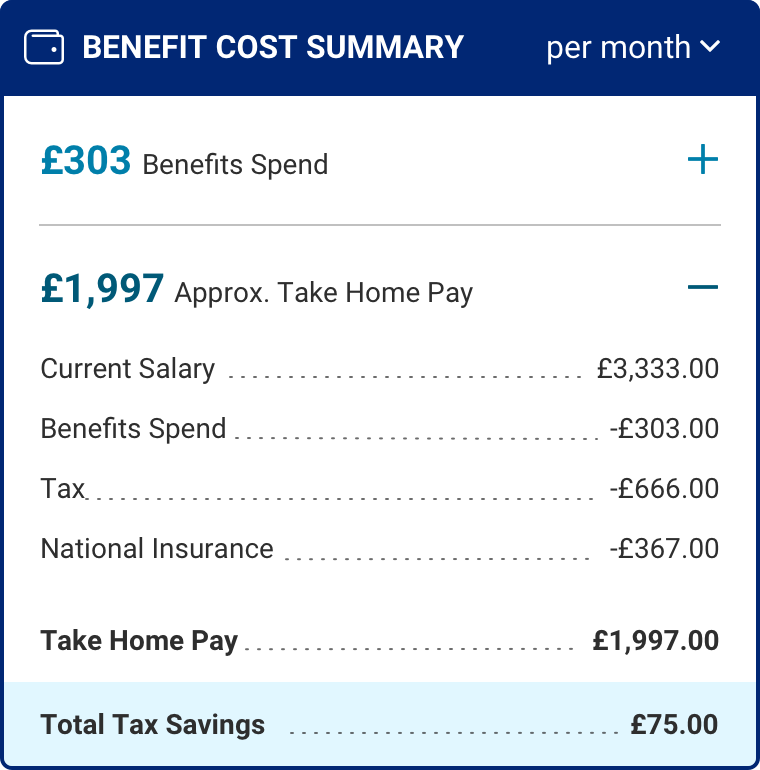
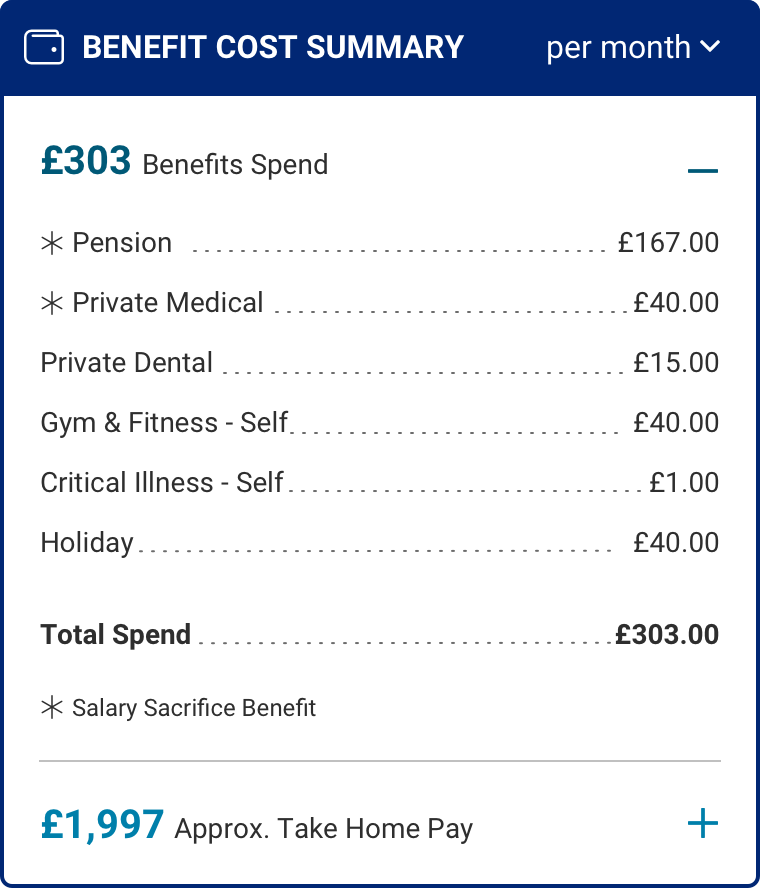
adds more content to tbs case study. Updates global header styles

diff --git a/src/pages/tbs.html b/src/pages/tbs.html
@@ -5,7 +5,7 @@ tagline: An employee benefits platform
 
 clients: Multinational Fortune 500 Companies, such as Microsoft, Accenture, and Johnson & Johnson
 users: Employees of Aon client companies
-description: Insurance broking is a core offering for Aon United. Our bespoke platform TBS brings together multiple HR applications and carrier data. It provides the underpinnings of most of our insurance enrollment websites, accounting for 1.4 billion in revenue.
+description: Aon's bespoke employee benefits platform TBS (Total Benefits Solutions) brings together multiple HR applications and carrier data. It provides the underpinnings of most of our insurance enrollment websites, accounting for 1.4 billion in revenue.
 
 roles: UX Designer, Team Lead
 
@@ -20,6 +20,9 @@ pageNavItems:
     anchor: poc
     title: Proof of Concept
   -
+    anchor: customization
+    title: Customization
+  -
     anchor: delivery
     title: Delivery (Ongoing)
 
@@ -27,7 +30,7 @@ pageNavItems:
 <section id="background" class="page-anchor">
   <section>
     <h2>Background</h2>
-    <p>The existing online benefits platform is confusing and difficult to navigate. Client HR departments are overwhelmed with requests for guidance. Competitors that center user experience threaten Aon’s market share.</p>
+    <p>My team was tasked with redesigning Aon's signature online benefits platform after client feedback indicated that the existing user experience is confusing and difficult to navigate. Our clients' HR departments are overwhelmed with requests for guidance. As a result, there is concern that competitors that center user experience will threaten Aon’s market share.</p>
     <h3>Goals</h3>
     <ul>
       <li>Simplify the user experience by addressing friction points and offering key information at the right times. Success will look like a reduction in poor feedback and customer service calls.</li>
@@ -39,7 +42,7 @@ pageNavItems:
       <li>Reducing friction around benefits enrollment, without being able to structure the carrier plans.</li>
       <li>Demonstrating the value of benefits and helping users choose the options that best meet their individual needs.</li>
       <li>Tailoring the platform for the Asia Pacific, Europe, and Middle East markets.</li>
-      <li>Building in sufficient flexibility to account for individual client configuration.</li>
+      <li>Building in flexibility to account for individual client configuration.</li>
     </ul>
   </section>
   <section>
@@ -106,6 +109,7 @@ pageNavItems:
   <section>
     <h3>Annual Enrollment</h3>
     <p>During annual enrollment, the user will be prompted to enroll in next year’s benefits.</p>
+    <h4>Pension Enrolment</h4>
     <p>This is the pension page. We introduced a number of decision support features to help guide the user through their selections.</p>
     {{> project-image 
       style='' 
@@ -136,8 +140,28 @@ pageNavItems:
       img='tbs/poc/tbs-pension-chart-2.png' 
       alt='chart showing pension growth if user contributes 6 percent of their salary'}}
 
-    <!-- <p>The benefit cost summary helps the user understand how much they are spending on benefits. The user can expand each section to see a breakdown of their spending and their take home pay. This component dynamically updates based on the user’s selections.</p> -->
+    <div class="grid-container full">
+      <div class="grid-x grid-padding-x">
+        <div class="cell medium-6">
+          <h4>Benefit Cost Summary</h4>
+          <p>The benefit cost summary helps the user understand how much they are spending on benefits. The user can expand each section to see a breakdown of their spending and their take home pay. This component dynamically updates based on the user’s selections.</p>
+        </div>
+        <div class="cell medium-6">
+          {{> project-image 
+            style='' 
+            classes='has-shadow' 
+            img='tbs/poc/tbs-benefit-cost-summary-1.png' 
+            alt='benefit cost summary with all sections closed'}}
+            {{> project-image 
+            style='' 
+            classes='has-shadow' 
+            img='tbs/poc/tbs-benefit-cost-summary-2.png' 
+            alt='benefit cost summary with first section open'}}
+        </div>
+      </div>
+    </div>
 
+    <h4>Private Medical Enrolment</h4>
     <p>This is the private medical benefit page. For private medical, the user can choose to cover dependents. They can also add or edit dependents.</p>
     <p>In testing, employees really valued the ability to add dependents on a per benefit basis, which is not something the current platform accommodates.</p>
 
@@ -173,6 +197,92 @@ They can also add or edit dependents.</p>
 </section>
 
 
+<section id="customization" class="page-anchor">
+  <section>
+    <h2>Customization</h2>
+    <p>For our clients, it's very important that TBS reflects their brands. In the past, Aon's configuration team wrote custom CSS for every individual client site. Our clients appreciated the flexibility of this approach, but it's a time-consuming process, and the resulting color combinations rarely meet accessibility criteria.</p>
+    <h4>Theme Color Application</h4>
+    <p>The first thing we tackled in delivery was creating a system that allows clients to customize TBS with one of 8 theme colors.</p>
+    <h5>Aqua Theme Components</h5>
+    {{> project-image 
+      style='' 
+      classes='has-shadow' 
+      img='tbs/delivery/tbs-theme-aqua.png' 
+      alt='aqua theme components'
+      caption=''}}
+    <h5>Navy Theme Components</h5>
+    {{> project-image 
+      style='' 
+      classes='has-shadow' 
+      img='tbs/delivery/tbs-theme-navy.png' 
+      alt='navy theme components'
+      caption=''}}
+    <h5>Red Theme Components</h5>
+    {{> project-image 
+      style='' 
+      classes='has-shadow' 
+      img='tbs/delivery/tbs-theme-red.png' 
+      alt='red theme components'
+      caption=''}}
+  </section>
+  <section>
+    <h4>Brand Color Application</h4>
+    <p>Clients can also apply their brand colors to select components. We have two different approaches to brand color application, depending on whether it's a darker or brighter hue.</p>
+    <h4>Light and Dark Modes</h4>
+    <p>Finally, clients can choose between light and dark mode, which impacts how their brand and theme colors are expressed.</p>
+    <h4>Visual Assets</h4>
+    <p>We also encourage clients to provide their own photography, icons, and other brand assets.</p>
+    <p>Here's a client branded dashboard in dark and light mode:</p>
+    <div class="grid-container full">
+      <div class="grid-x grid-padding-x">
+        <div class="cell medium-6">
+          {{> project-image 
+            style='' 
+            classes='has-shadow' 
+            img='tbs/delivery/tbs-dash-clienta-light-mode.png' 
+            alt='Client Dashboard in Light Mode'
+            caption='Client Dashboard in Light Mode'}}
+        </div>
+        <div class="cell medium-6">
+          {{> project-image 
+            style='' 
+            classes='has-shadow' 
+            img='tbs/delivery/tbs-dash-clienta-dark-mode.png' 
+            alt='Client Dashboard in Dark Mode'
+            caption='Client Dashboard in Dark Mode'}}
+        </div>
+      </div>
+    </div>
+  </section>
+</section>
 <section id="delivery" class="page-anchor">
-  <h2>Delivery (Ongoing)</h2>
+  <section>
+    <h2>Delivery (Ongoing)</h2>
+    <h3>Benefit Selection</h3>
+    <p>When we revisited the enrolment flow in delivery, we knew we needed to rethink the step at which the user selects their benefits. Our original proof of concept design <span class="show-for-medium">(left)</span> showed all of the benefits in every category on one page. This was overwhelming for the user. In delivery<span class="show-for-medium"> (right)</span>, we present only one category of benefits on a page at a time, thus reducing cognitive overload.</p>
+    <div class="grid-container full">
+      <div class="grid-x grid-padding-x">
+        <div class="cell medium-6">
+          {{> project-image 
+            style='' 
+            classes='has-shadow' 
+            img='tbs/poc/tbs-benefits-selection.png' 
+            alt=''
+            caption='original design'}}
+        </div>
+        <div class="cell medium-6">
+          {{> project-image 
+            style='' 
+            classes='has-shadow' 
+            img='tbs/delivery/tbs-benefits-selection.png' 
+            alt=''
+            caption='updated design'}}
+        </div>
+      </div>
+    </div>
+  </section>
+  <section>
+    <h3>Plan Selection</h3>
+    <p>When the user enrolls in a particular benefit, the way their benefit options are presented to them varies depending on how the benefit is structured by the carrier.</p>
+  </section>
 </section>

diff --git a/src/assets/scss/global/_typography.scss b/src/assets/scss/global/_typography.scss
@@ -54,11 +54,16 @@ h2 {
   margin-top: 0;
   margin-bottom: .5em;
   font-family: $mercury-display;
-  font-weight: 600;
+  font-weight: 700;
+
+  @include breakpoint(medium) {
+    font-size: 2em;
+    line-height: 1.2em;
+  }
 }
 
 h3 {
-  font-size: 1.2em;
+  font-size: 1.4em;
   line-height: 1em;
   margin-bottom: .5em;
   font-family: $gotham-narrow;
@@ -67,20 +72,19 @@ h3 {
 }
 
 h4 {
-  font-size: 1em;
+  font-size: 1.2em;
   line-height: 1em;
   margin-bottom: .5em;
   font-family: $gotham;
-  font-weight: 500;
+  font-weight: 700;
 }
 
 h5 {
-  font-size: .9em;
-  line-height: .85em;
-  margin-top: .75em;
-  margin-bottom: .25em;
+  font-size: 1em;
+  margin-top: 1em;
+  margin-bottom: 0;
   font-family: $gotham;
-  font-weight: 400;
+  font-weight: 700;
 }
 
 h6 {

diff --git a/src/partials/project-hero.html b/src/partials/project-hero.html
@@ -9,9 +9,9 @@
       <div class="cell medium-8 large-6">
         <div class="project-hero__content">
           <h1>{{title}}</h1>
-          <h2>{{tagline}}</h2>
+          <p class="project-hero__tagline">{{tagline}}</p>
           <p>{{description}}</p>
-          <p><span class="project-label">Clients include: </span>{{clients}}</p>
+          <p><span class="project-label">Clients Include: </span>{{clients}}</p>
           <p><span class="project-label">Users: </span>{{users}}</p>
           <p><span class="project-label">My Role:</span> {{roles}}</p>
         </div>

diff --git a/src/assets/scss/components/_project.scss b/src/assets/scss/components/_project.scss
@@ -49,6 +49,16 @@
   }
 }
 
+.project-hero__tagline {
+  font-size: 1.4em;
+  line-height: 1em;
+  margin-top: .5em;
+  margin-bottom: 1.5em;
+  font-family: $gotham-narrow;
+  font-weight: 700;
+  color: $medium-gray;
+}
+
 .project-label {
   font-weight: 700;
 }

diff --git a/src/assets/scss/components/_project-image.scss b/src/assets/scss/components/_project-image.scss
@@ -2,7 +2,7 @@
   margin: 1em 0;
 
   @include breakpoint(medium) {
-    margin: 2em 0;
+    margin: 1.5em 0;
   }
 
   img {
